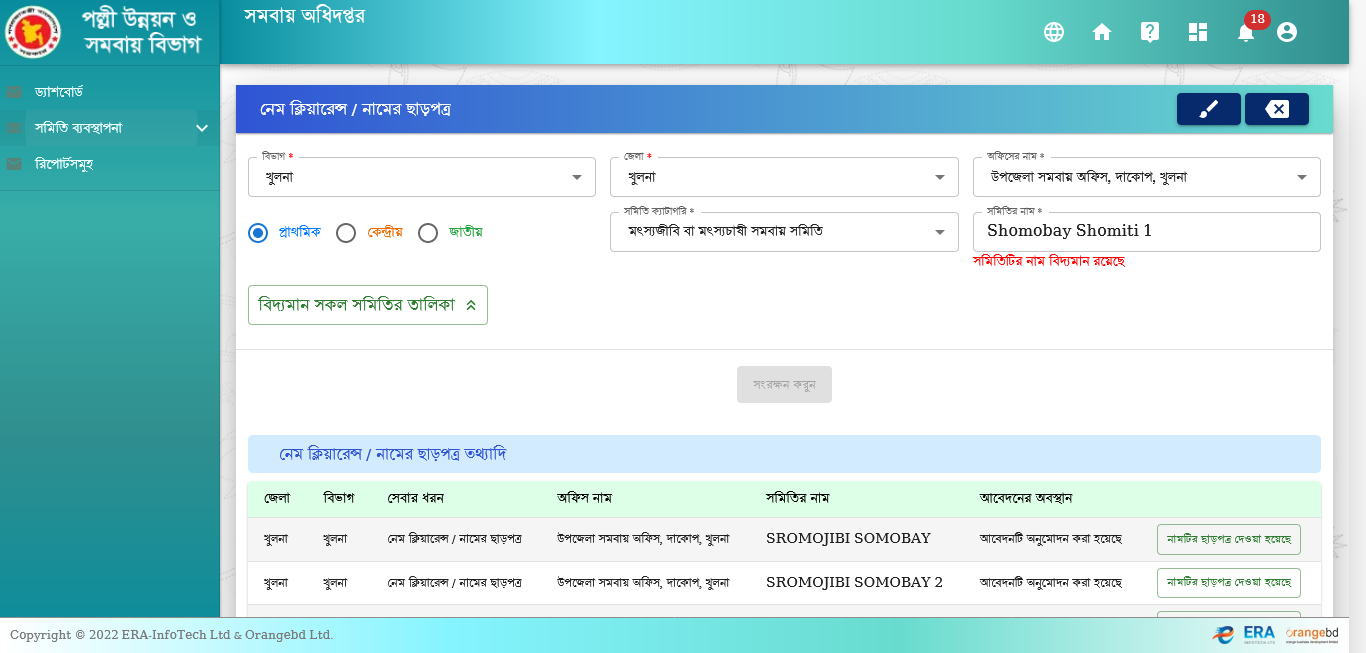
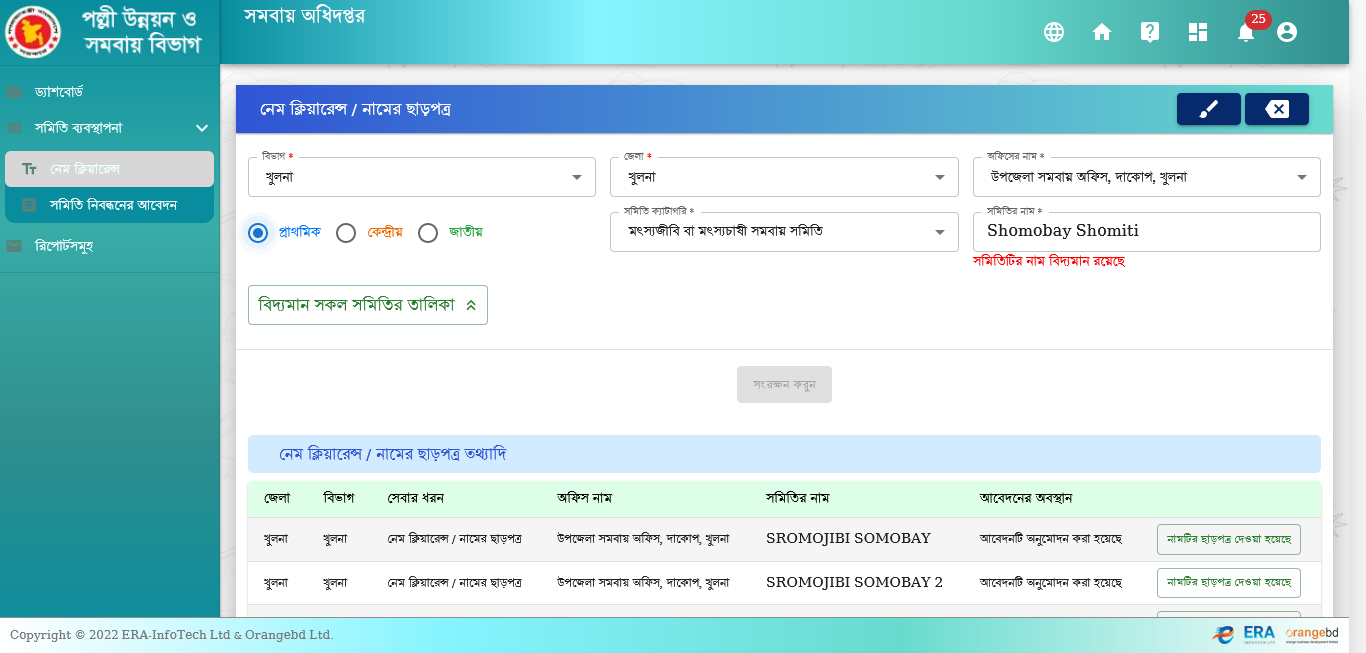
name clearance module updated

Changed region(s): [[0.0, 0.2144, 0.1537, 0.3982]]

diff --git a/test-output/emailable-report.html b/test-output/emailable-report.html
@@ -9,11 +9,60 @@
 <table>
 <tr><th>Test</th><th># Passed</th><th># Skipped</th><th># Retried</th><th># Failed</th><th>Time (ms)</th><th>Included Groups</th><th>Excluded Groups</th></tr>
 <tr><th colspan="8">All Test Suite</th></tr>
-<tr><td><a href="#t0">test</a></td><td class="num">3</td><td class="num">0</td><td class="num">0</td><td class="num">0</td><td class="num">32,361</td><td></td><td></td></tr>
+<tr><td><a href="#t0">test</a></td><td class="num">2</td><td class="num">0</td><td class="num attn">1</td><td class="num">0</td><td class="num">19,485</td><td></td><td></td></tr>
 </table>
-<table id='summary'><thead><tr><th>Class</th><th>Method</th><th>Start</th><th>Time (ms)</th></tr></thead><tbody><tr><th colspan="4">All Test Suite</th></tr></tbody><tbody id="t0"><tr><th colspan="4">test &#8212; passed</th></tr><tr class="passedeven"><td rowspan="3">com.RDCD.All_RDCD</td><td><a href="#m0">CancelNameClearance</a></td><td rowspan="1">1659585792403</td><td rowspan="1">5597</td></tr><tr class="passedeven"><td><a href="#m1">Login</a></td><td rowspan="1">1659585780256</td><td rowspan="1">946</td></tr><tr class="passedeven"><td><a href="#m2">NameClearance</a></td><td rowspan="1">1659585781205</td><td rowspan="1">11197</td></tr></tbody>
+<table id='summary'><thead><tr><th>Class</th><th>Method</th><th>Start</th><th>Time (ms)</th></tr></thead><tbody><tr><th colspan="4">All Test Suite</th></tr></tbody><tbody id="t0"><tr><th colspan="4">test &#8212; retried</th></tr><tr class="retriedeven"><td rowspan="1">com.RDCD.All_RDCD</td><td><a href="#m0">NameClearance</a></td><td rowspan="1">1659587220346</td><td rowspan="1">5768</td></tr><tr><th colspan="4">test &#8212; passed</th></tr><tr class="passedeven"><td rowspan="2">com.RDCD.All_RDCD</td><td><a href="#m1">Login</a></td><td rowspan="1">1659587219554</td><td rowspan="1">788</td></tr><tr class="passedeven"><td><a href="#m2">NameClearance</a></td><td rowspan="1">1659587226207</td><td rowspan="1">3478</td></tr></tbody>
 </table>
-<h2>test</h2><h3 id="m0">com.RDCD.All_RDCD#CancelNameClearance</h3><table class="result"><tr><th class="invisible"/></tr></table><p class="totop"><a href="#summary">back to summary</a></p>
+<h2>test</h2><h3 id="m0">com.RDCD.All_RDCD#NameClearance</h3><table class="result"><tr><th>Exception</th></tr><tr><td><div class="stacktrace">org.openqa.selenium.ElementClickInterceptedException: Element &lt;button class=&quot;MuiButton-root MuiButton-contained MuiButton-containedPrimary MuiButton-sizeMedium MuiButton-containedSizeMedium MuiButtonBase-root Mui-disabled  css-1hw9j7s&quot; type=&quot;button&quot;&gt; is not clickable at point (784,384) because another element &lt;div class=&quot;MuiBox-root css-1tfqlfq&quot;&gt; obscures it
+Build info: version: &apos;4.0.0&apos;, revision: &apos;3a21814679&apos;
+System info: host: &apos;DESKTOP-7IO8K5N&apos;, ip: &apos;10.11.200.160&apos;, os.name: &apos;Windows 10&apos;, os.arch: &apos;amd64&apos;, os.version: &apos;10.0&apos;, java.version: &apos;1.8.0_171&apos;
+Driver info: org.openqa.selenium.firefox.FirefoxDriver
+Command: [439365a9-7b07-4f60-a2d6-5e7795687de4, clickElement {id=63f02bd1-018b-44d4-954b-fc39a676dc07}]
+Capabilities {acceptInsecureCerts: true, browserName: firefox, browserVersion: 103.0.1, javascriptEnabled: true, moz:accessibilityChecks: false, moz:buildID: 20220729222726, moz:debuggerAddress: localhost:58895, moz:geckodriverVersion: 0.31.0, moz:headless: false, moz:platformVersion: 10.0, moz:processID: 14168, moz:profile: C:\Users\tariq\AppData\Loca..., moz:shutdownTimeout: 60000, moz:useNonSpecCompliantPointerOrigin: false, moz:webdriverClick: true, moz:windowless: false, pageLoadStrategy: normal, platform: WINDOWS, platformName: WINDOWS, proxy: Proxy(), se:cdp: ws://localhost:58895/devtoo..., se:cdpVersion: 85, setWindowRect: true, strictFileInteractability: false, timeouts: {implicit: 0, pageLoad: 300000, script: 30000}, unhandledPromptBehavior: dismiss and notify}
+Element: [[FirefoxDriver: firefox on WINDOWS (439365a9-7b07-4f60-a2d6-5e7795687de4)] -&gt; css selector: .MuiButton-sizeMedium]
+Session ID: 439365a9-7b07-4f60-a2d6-5e7795687de4
+	at sun.reflect.NativeConstructorAccessorImpl.newInstance0(Native Method)
+	at sun.reflect.NativeConstructorAccessorImpl.newInstance(NativeConstructorAccessorImpl.java:62)
+	at sun.reflect.DelegatingConstructorAccessorImpl.newInstance(DelegatingConstructorAccessorImpl.java:45)
+	at java.lang.reflect.Constructor.newInstance(Constructor.java:423)
+	at org.openqa.selenium.remote.codec.w3c.W3CHttpResponseCodec.createException(W3CHttpResponseCodec.java:200)
+	at org.openqa.selenium.remote.codec.w3c.W3CHttpResponseCodec.decode(W3CHttpResponseCodec.java:133)
+	at org.openqa.selenium.remote.codec.w3c.W3CHttpResponseCodec.decode(W3CHttpResponseCodec.java:53)
+	at org.openqa.selenium.remote.HttpCommandExecutor.execute(HttpCommandExecutor.java:184)
+	at org.openqa.selenium.remote.service.DriverCommandExecutor.invokeExecute(DriverCommandExecutor.java:164)
+	at org.openqa.selenium.remote.service.DriverCommandExecutor.execute(DriverCommandExecutor.java:139)
+	at org.openqa.selenium.remote.RemoteWebDriver.execute(RemoteWebDriver.java:559)
+	at org.openqa.selenium.remote.RemoteWebElement.execute(RemoteWebElement.java:251)
+	at org.openqa.selenium.remote.RemoteWebElement.click(RemoteWebElement.java:77)
+	at com.RDCD.All_RDCD.NameClearance(All_RDCD.java:101)
+	at sun.reflect.NativeMethodAccessorImpl.invoke0(Native Method)
+	at sun.reflect.NativeMethodAccessorImpl.invoke(NativeMethodAccessorImpl.java:62)
+	at sun.reflect.DelegatingMethodAccessorImpl.invoke(DelegatingMethodAccessorImpl.java:43)
+	at java.lang.reflect.Method.invoke(Method.java:498)
+	at org.testng.internal.invokers.MethodInvocationHelper.invokeMethod(MethodInvocationHelper.java:135)
+	at org.testng.internal.invokers.TestInvoker.invokeMethod(TestInvoker.java:673)
+	at org.testng.internal.invokers.TestInvoker.invokeTestMethod(TestInvoker.java:220)
+	at org.testng.internal.invokers.MethodRunner.runInSequence(MethodRunner.java:50)
+	at org.testng.internal.invokers.TestInvoker$MethodInvocationAgent.invoke(TestInvoker.java:945)
+	at org.testng.internal.invokers.TestInvoker.invokeTestMethods(TestInvoker.java:193)
+	at org.testng.internal.invokers.TestMethodWorker.invokeTestMethods(TestMethodWorker.java:146)
+	at org.testng.internal.invokers.TestMethodWorker.run(TestMethodWorker.java:128)
+	at java.util.ArrayList.forEach(ArrayList.java:1257)
+	at org.testng.TestRunner.privateRun(TestRunner.java:808)
+	at org.testng.TestRunner.run(TestRunner.java:603)
+	at org.testng.SuiteRunner.runTest(SuiteRunner.java:429)
+	at org.testng.SuiteRunner.runSequentially(SuiteRunner.java:423)
+	at org.testng.SuiteRunner.privateRun(SuiteRunner.java:383)
+	at org.testng.SuiteRunner.run(SuiteRunner.java:326)
+	at org.testng.SuiteRunnerWorker.runSuite(SuiteRunnerWorker.java:52)
+	at org.testng.SuiteRunnerWorker.run(SuiteRunnerWorker.java:95)
+	at org.testng.TestNG.runSuitesSequentially(TestNG.java:1249)
+	at org.testng.TestNG.runSuitesLocally(TestNG.java:1169)
+	at org.testng.TestNG.runSuites(TestNG.java:1092)
+	at org.testng.TestNG.run(TestNG.java:1060)
+	at com.intellij.rt.testng.IDEARemoteTestNG.run(IDEARemoteTestNG.java:66)
+	at com.intellij.rt.testng.RemoteTestNGStarter.main(RemoteTestNGStarter.java:109)
+</div></td></tr></table><p class="totop"><a href="#summary">back to summary</a></p>
 <h3 id="m1">com.RDCD.All_RDCD#Login</h3><table class="result"><tr><th class="invisible"/></tr></table><p class="totop"><a href="#summary">back to summary</a></p>
 <h3 id="m2">com.RDCD.All_RDCD#NameClearance</h3><table class="result"><tr><th class="invisible"/></tr></table><p class="totop"><a href="#summary">back to summary</a></p>
 </body>

diff --git a/src/test/java/com/RDCD/All_RDCD.java b/src/test/java/com/RDCD/All_RDCD.java
@@ -54,10 +54,6 @@ public class All_RDCD extends BaseClass {
     @Test(description = "This is for name clearance scenario", priority =2, enabled = true)
     public static void NameClearance() throws InterruptedException {
 
-        /*driver.findElement(By.cssSelector(".MuiButton-containedPrimary")).click();
-
-        driver.findElement(By.cssSelector(".MuiPaper-root:nth-child(1) .MuiListItemButton-root:nth-child(3) .MuiTypography-root")).click();
-        driver.findElement(By.cssSelector(".MuiPaper-root:nth-child(1) .MuiCollapse-root .MuiButtonBase-root:nth-child(1) .MuiTypography-root")).click();*/
         Menu_NameClearance();
 
         //Divisions
@@ -83,7 +79,9 @@ public class All_RDCD extends BaseClass {
         //driver.findElement(By.id("mui-19")).sendKeys("Shomobay Shomiti");
 
         WebElement name = driver.findElement(By.id("mui-19"));
-        if(name.getText() == null){
+        String text = name.getAttribute("value");
+
+        if(text.isEmpty()){
             name.sendKeys("Shomobay Shomiti");
         }
         else{
